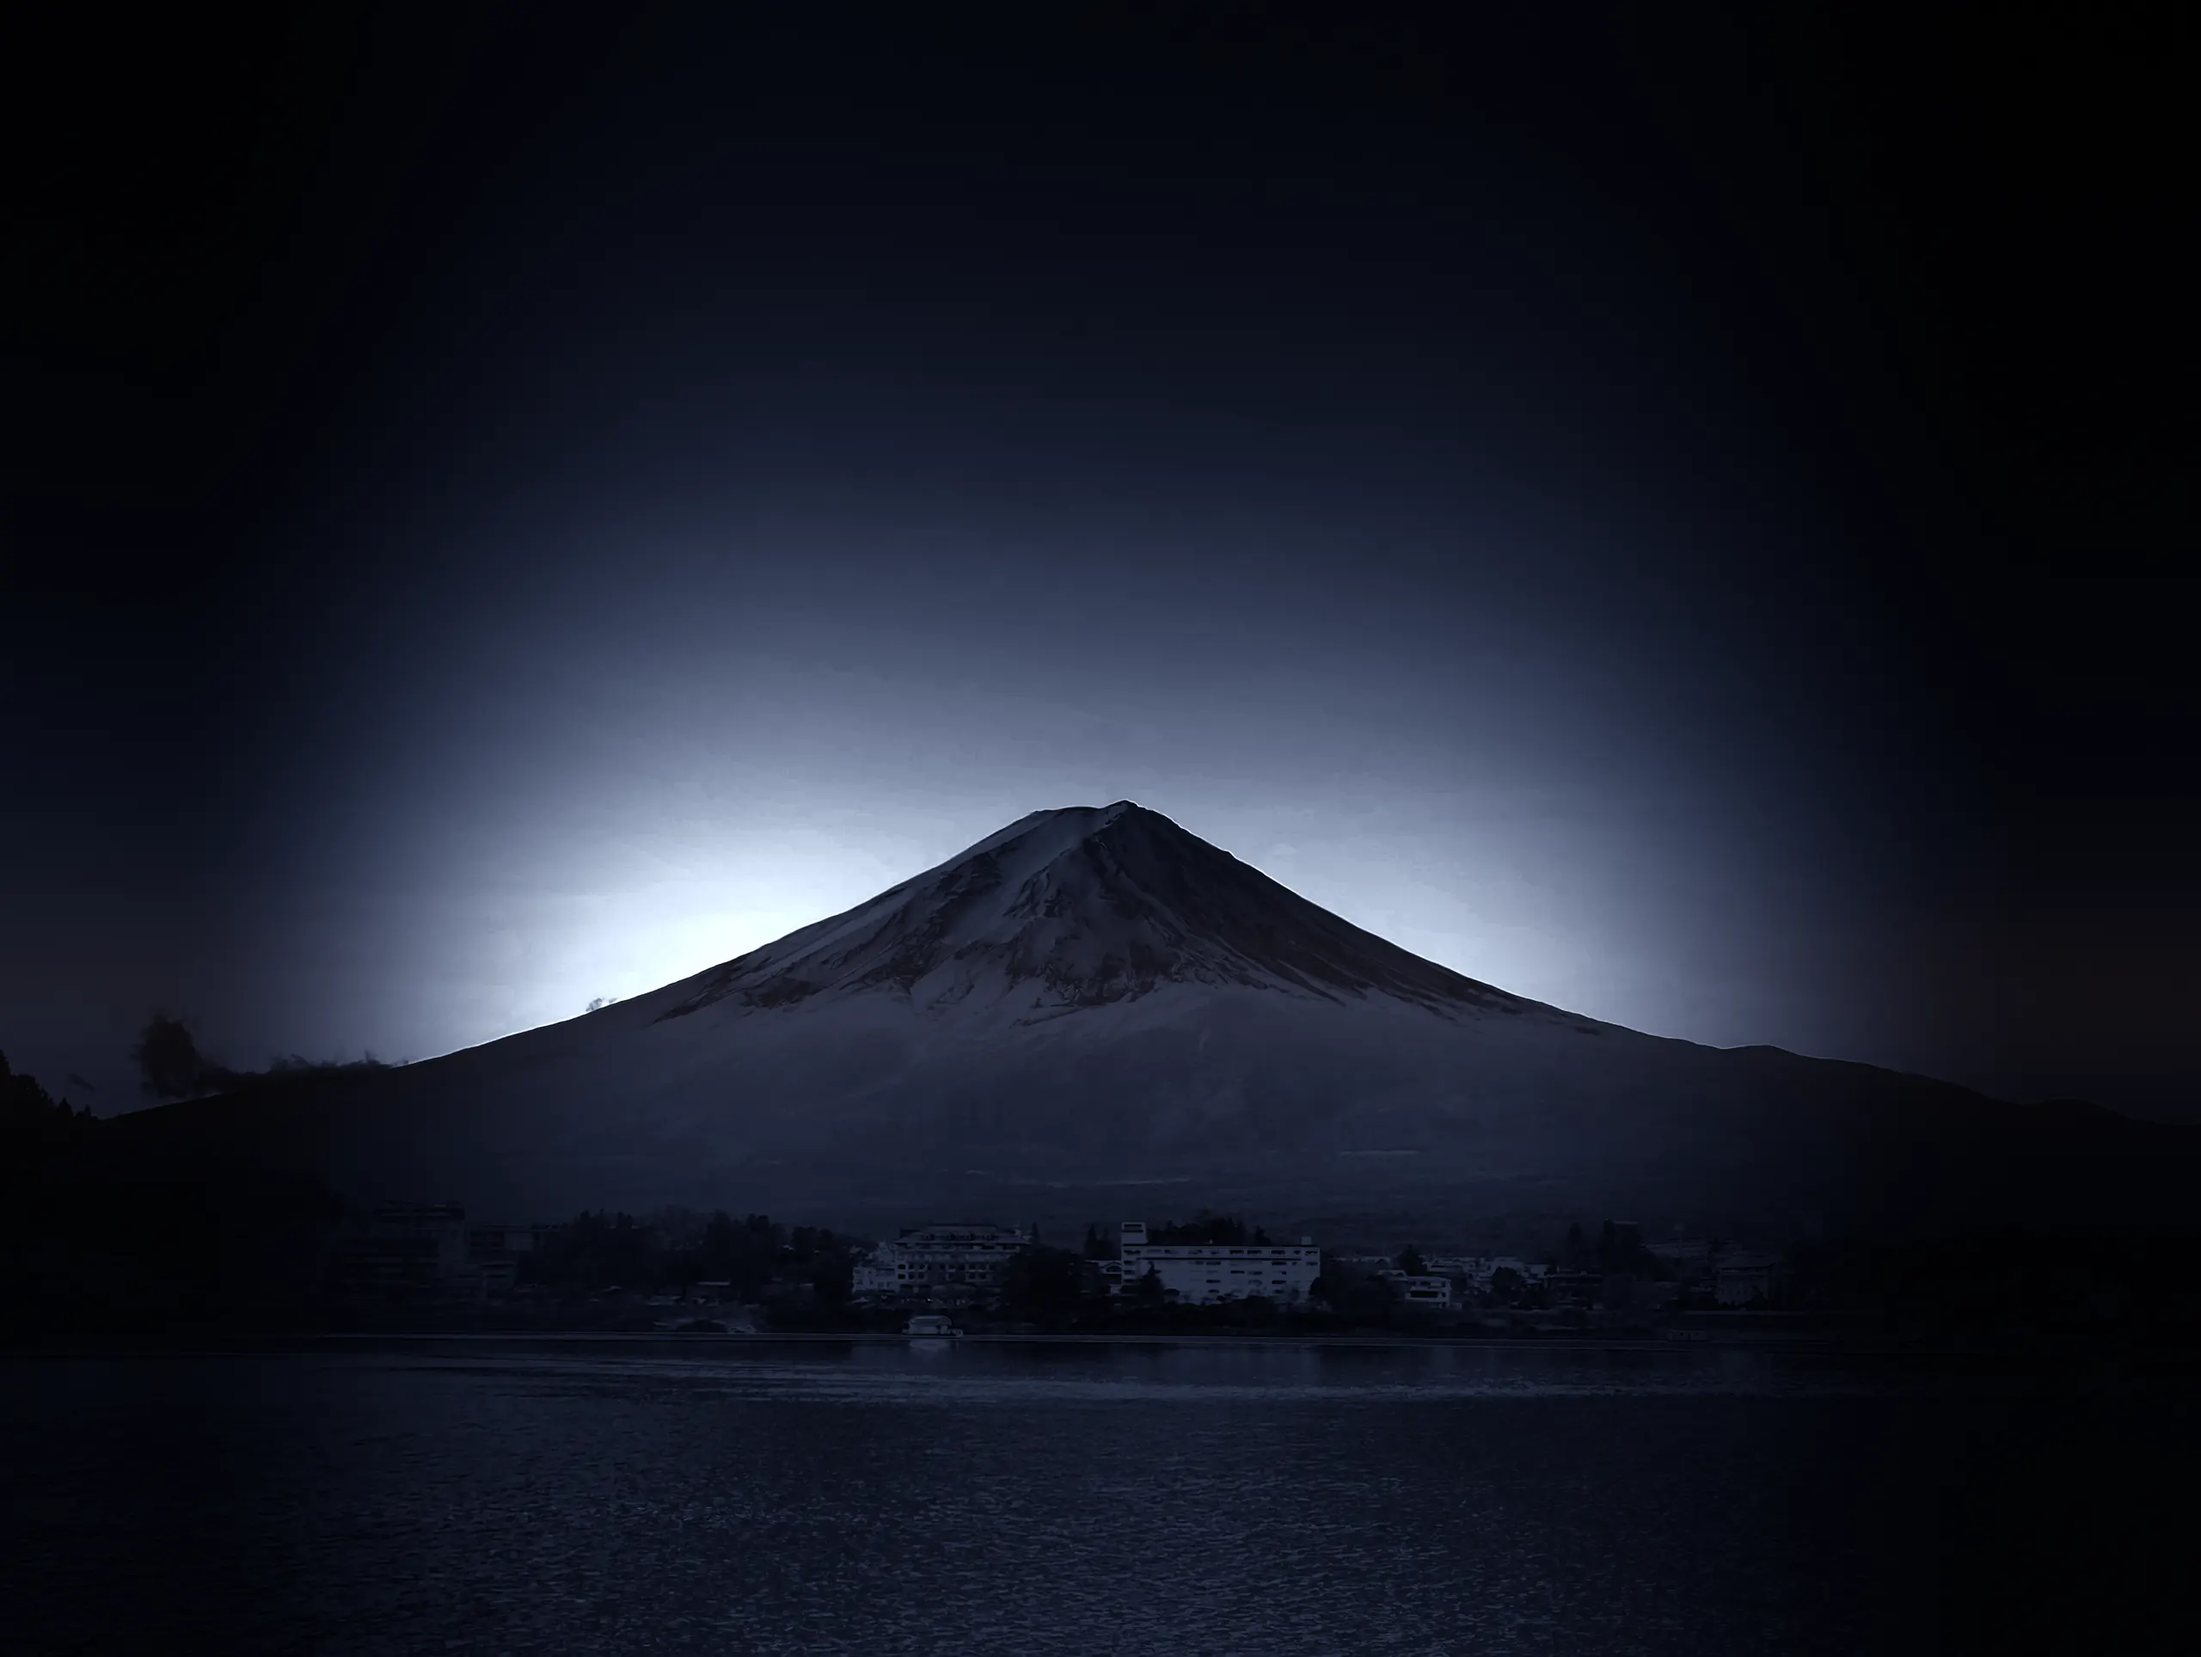
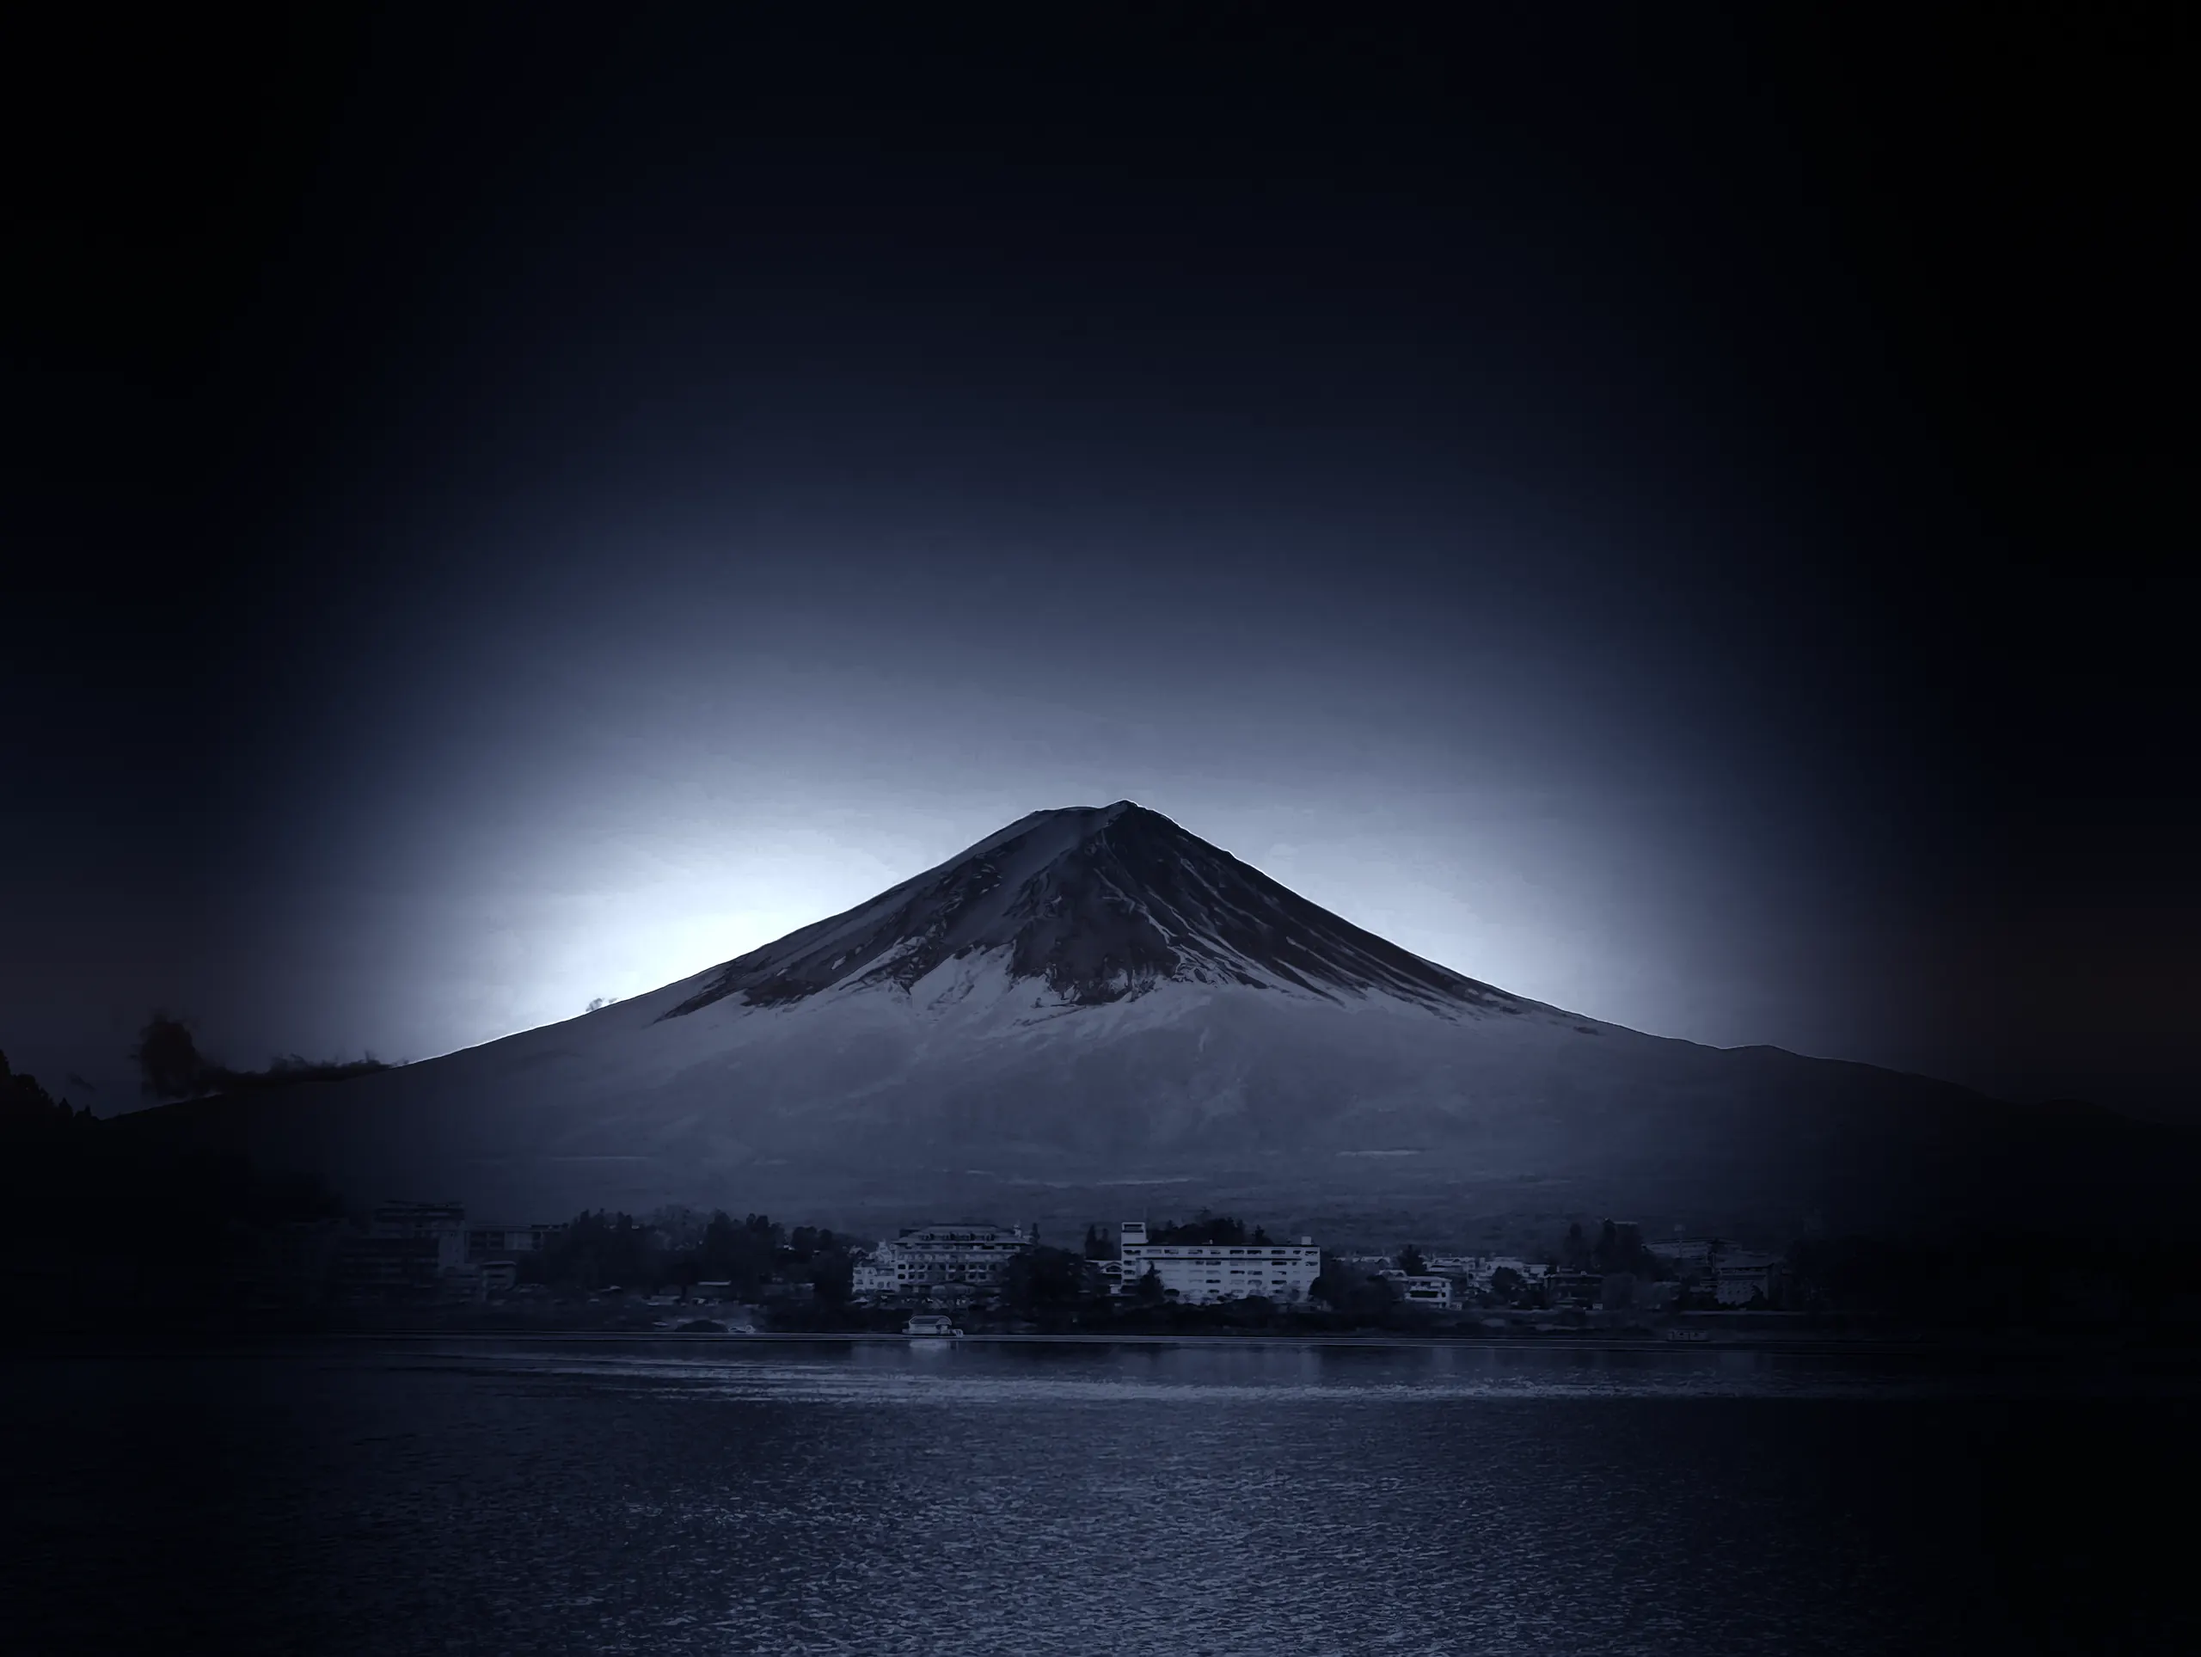
fix(frontend): lift the night mountain a little more
Wider range of rock tones lifted (threshold raised, lift ramp starting higher
up the slope). Mean luminance goes from 0.11 to 0.13; the sky is unchanged.

Changed region(s): [[0.2188, 0.5293, 0.7812, 1.0]]

diff --git a/claude/design-system.md b/claude/design-system.md
@@ -8,7 +8,7 @@ The site is a climb. It opens on a full-bleed photograph of Mount Fuji at dawn (
 
 The test for any visual addition: does it belong to the climb, or is it decoration? If decoration, cut it.
 
-The dark theme is not the light theme with dark tokens: it has its own photograph. `fuji-night-{1600,2560,3840}.webp` is a blue-hour grading of the same picture (mean luminance about 0.11 against 0.58 for the original photo: the sky is near-black at the top, a faint glow sits behind the summit, the outer thirds are dimmed so the horizon never glares, and the dark rock of the mountain is lifted to a slate blue so it keeps its slopes and the lakeside village instead of reading as a black triangle; the lift is limited to dark pixels so the sky glow does not grow with it). `HeroSection` picks the photo from the theme, and the title turns light on it. The Contact scrim is 88% in the dark theme (75% in the light one) to match.
+The dark theme is not the light theme with dark tokens: it has its own photograph. `fuji-night-{1600,2560,3840}.webp` is a blue-hour grading of the same picture (mean luminance about 0.13 against 0.58 for the original photo: the sky is near-black at the top, a faint glow sits behind the summit, the outer thirds are dimmed so the horizon never glares, and the dark rock of the mountain is lifted to a slate blue so it keeps its slopes and the lakeside village instead of reading as a black triangle; the lift is limited to dark pixels so the sky glow does not grow with it). `HeroSection` picks the photo from the theme, and the title turns light on it. The Contact scrim is 88% in the dark theme (75% in the light one) to match.
 
 Photos live in `frontend/public/images/`, exported from the full-resolution originals (colour-managed to sRGB, light contrast/clarity pass, sharpened after downscale) as `fuji-sunrise-{1600,2560,3840}.webp` (light theme), `fuji-night-{1600,2560,3840}.webp` (dark theme) and `fuji-reflection-{1600,2560}.webp` (Contact), served through `srcset`. All are the owner's own; nobody appears in them. Any other image must also be the owner's own or licensed.
 
